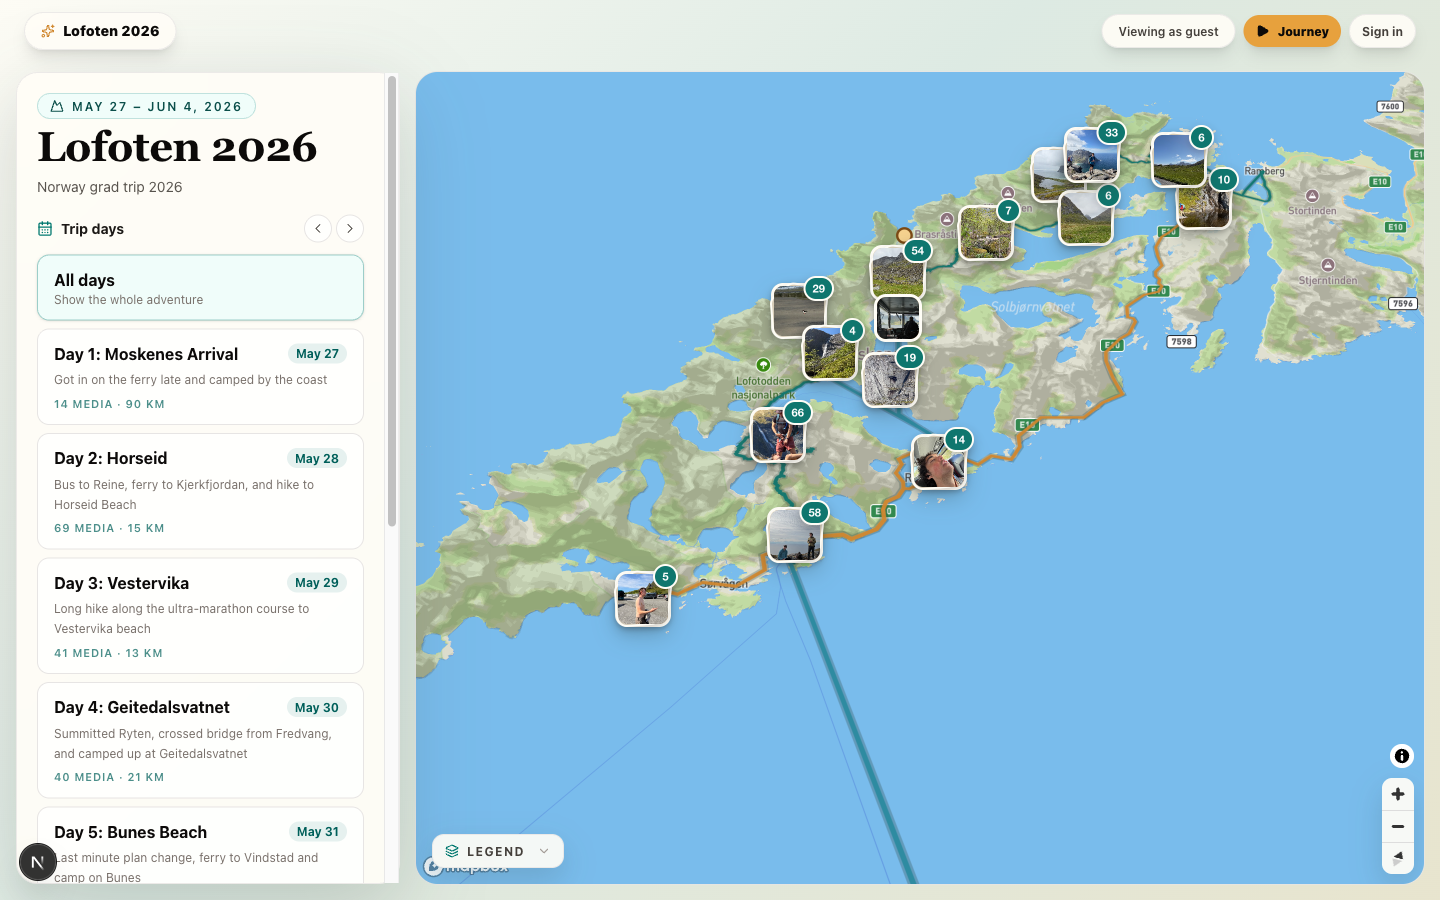
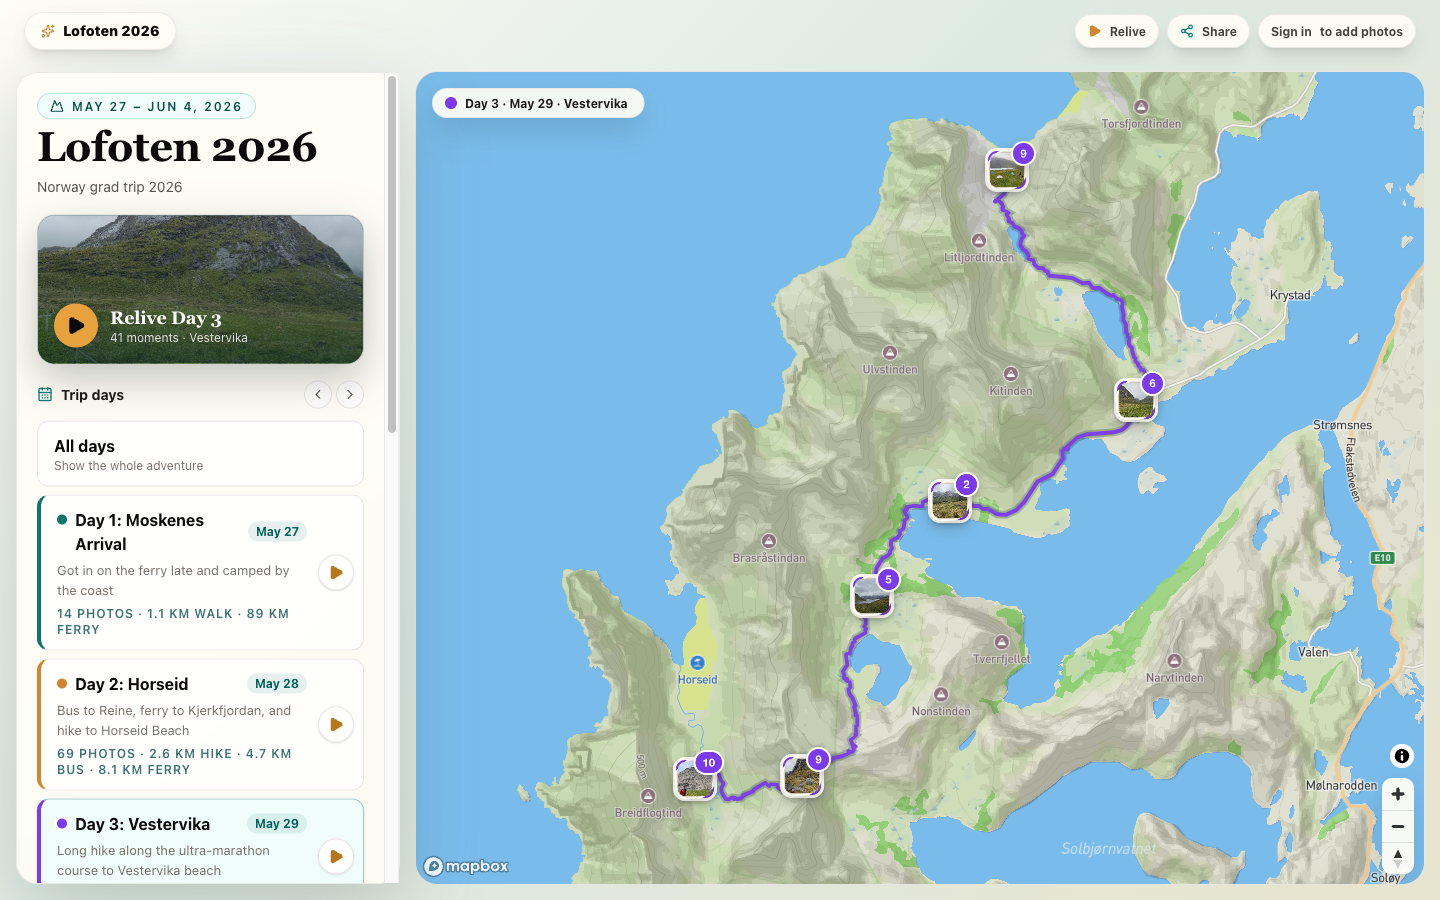
Refresh README screenshots and describe current features
Replace the June screenshots and Journey GIF with captures of the live
site, fix the live-app link to the current production domain, and update
the feature, architecture, and CI sections to match the app today.

diff --git a/README.md b/README.md
@@ -5,11 +5,11 @@ account; invited members can sign in to add geotagged photos and notes, and
 admins can maintain the itinerary, routes, places, and membership.
 
 <p>
-  <a href="https://lofoten-map-kappa.vercel.app"><strong>▶ Live app</strong></a>
+  <a href="https://lofoten-logbook.vercel.app"><strong>▶ Live app</strong></a>
   &nbsp;·&nbsp; public reading requires no login
 </p>
 
-![Lofoten Logbook — interactive trip map with itinerary sidebar, route line, and photo markers](docs/images/screenshot.png)
+![Lofoten Logbook — trip map showing one day's hiking route, photo markers, and the itinerary sidebar](docs/images/screenshot.png)
 
 <p>
   <img alt="Next.js" src="https://img.shields.io/badge/Next.js-16-000000?logo=nextdotjs&logoColor=white">
@@ -34,6 +34,11 @@ admins can maintain the itinerary, routes, places, and membership.
 - **Database-enforced authorization.** Neon Postgres RLS implements public
   reads, member contributions, and owner-or-admin writes. Signing in alone does
   not grant edit access.
+- **Duplicate and outlier checks.** Re-uploads are caught by content hash and
+  by capture time and place. Admins can review photos whose position disagrees
+  with shots taken around the same time and move them back to that group.
+- **Route import.** Admins can import GPX tracks, which are simplified before
+  they are stored as day routes.
 - **Low-churn collaboration.** Visible tabs refresh Neon data every 30 seconds
   and immediately after local mutations. This replaces the previous Realtime
   subscription while keeping the UI current without a permanent connection.
@@ -42,16 +47,21 @@ admins can maintain the itinerary, routes, places, and membership.
 
 ## Product tour
 
-**Journey mode** steps through a day's media full-screen while a minimap tracks
-each shot along the route.
+Each day gets its own color on the map, in the sidebar, and on the Journey
+timeline. Selecting a day zooms to its routes and photos, and the URL updates so
+any day, photo, or note can be shared as a link.
 
-![Journey mode — full-screen photo playback with a live minimap tracking the route](docs/images/journey-mode.gif)
+**Journey mode** (the "Relive" button) steps through the trip's photos and
+videos full-screen. A minimap tracks each shot along the route, and the
+timeline can jump straight to any day.
 
-The responsive desktop sidebar becomes a mobile bottom sheet, and the map,
-popups, upload flow, and administrative tools remain touch-friendly.
+![Journey mode — full-screen photo playback with a day timeline and a minimap tracking the route](docs/images/journey-mode.gif)
+
+On phones the sidebar becomes a bottom sheet for switching days and starting
+Journey mode. The map, popups, upload flow, and admin tools stay touch-friendly.
 
 <p align="center">
-  <img alt="Mobile view with the itinerary bottom sheet and photo markers" src="docs/images/mobile.png" width="300">
+  <img alt="Mobile view of Day 2 with color-coded routes, photo markers, and the day bottom sheet" src="docs/images/mobile.png" width="300">
 </p>
 
 ## Runtime modes
@@ -133,9 +143,11 @@ lib/backend.ts        Neon Auth + Data API browser client
 lib/object-store*.ts  public R2 URLs, presigned uploads, and guarded deletion
 lib/hooks/            auth, data loading, 30-second polling, and mutations
 cloudflare/           media-worker: Cloudflare Worker serving public R2 objects with CORS and path validation
-neon/                 target schema plus export/import/verification runbook
-supabase/              historical source schema and rollback artifact
-types/                 shared trip data types
+neon/                 target schema, patches, and export/import/verification runbook
+scripts/              one-off maintenance: R2 migration, photo dedupe, orphan purge
+e2e/                  Playwright specs run against demo mode
+supabase/             historical source schema and rollback artifact
+types/                shared trip data types
 ```
 
 Neon RLS remains the source of truth for authorization. The R2 API routes pass
@@ -203,7 +215,8 @@ npm run ci             # lint + typecheck + unit tests
 ```
 
 Unit tests are colocated with the modules they cover. CI runs lint, typecheck,
-tests, and a demo-mode production build. The Playwright suite forces local demo
+unit tests, a demo-mode production build, a typecheck of the Cloudflare media
+worker, and then the Playwright suite. The Playwright suite forces local demo
 mode and does not contact Neon, R2, or the retired Supabase runtime.
 
 ## Roadmap
